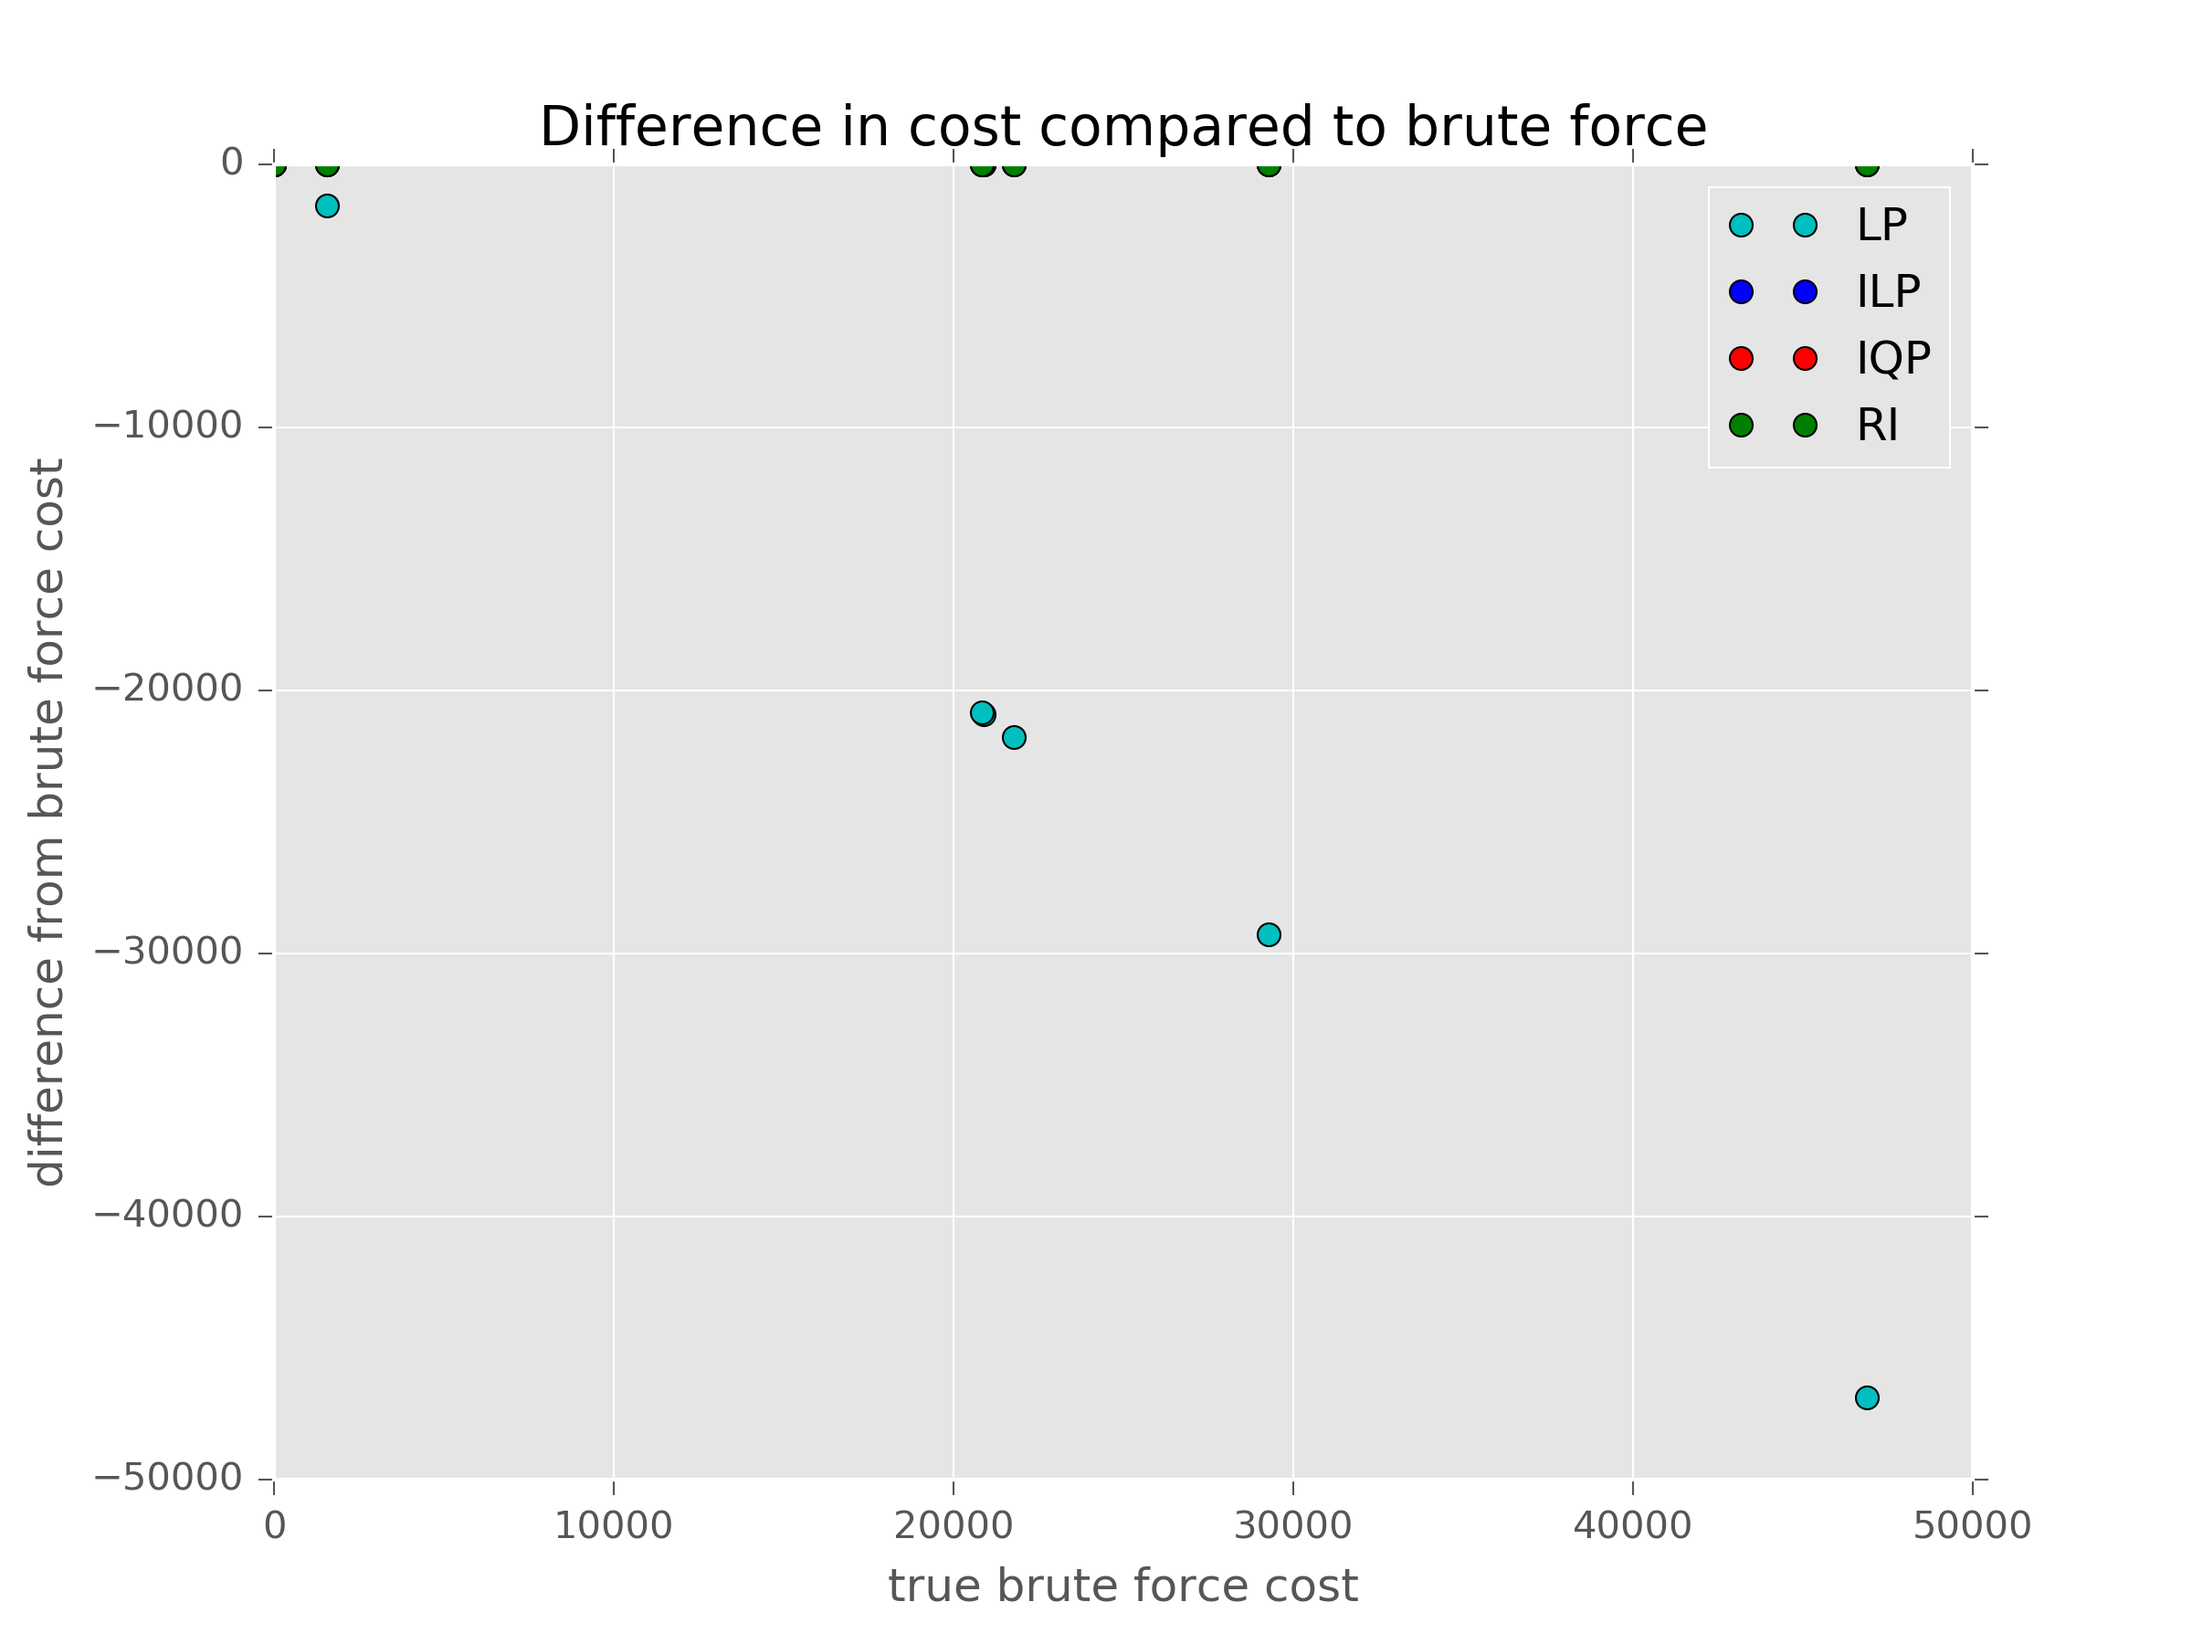
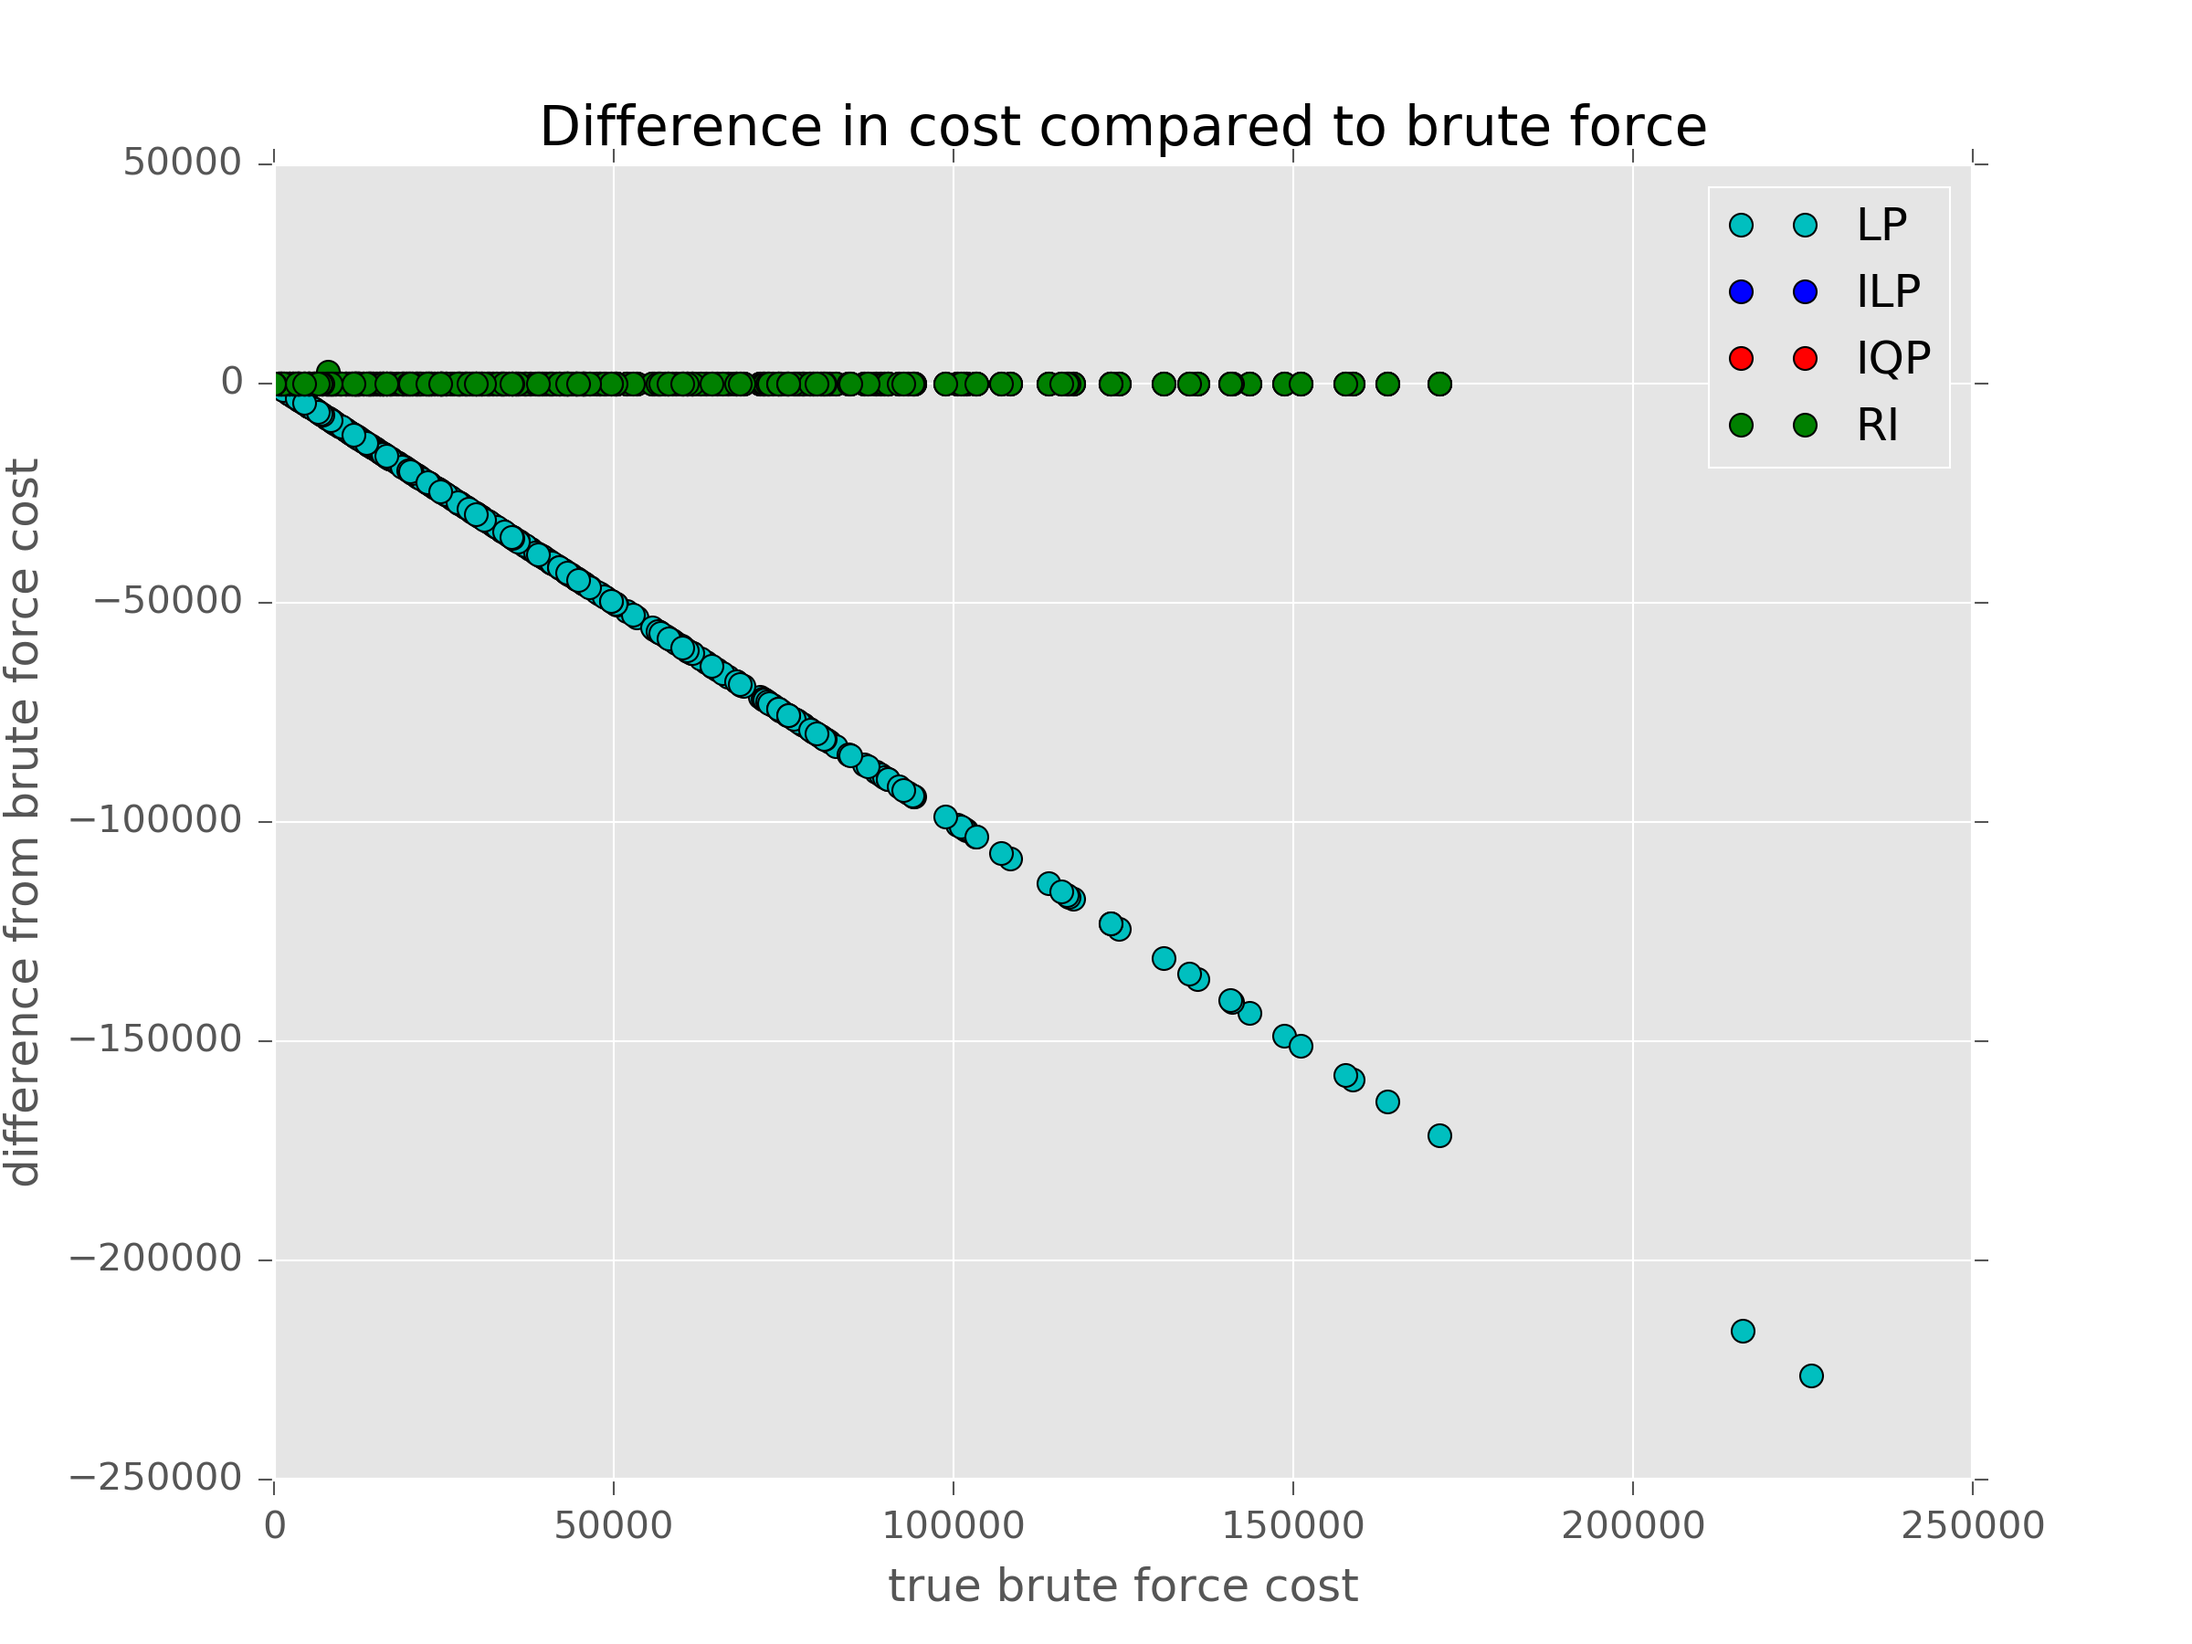
Linear Program relaxation graphs.

diff --git a/pysrc/june_22.py b/pysrc/june_22.py
@@ -12,7 +12,7 @@ ilp_response = []
 lp_response = []
 ri_response = []
 
-for i in range(10):
+for i in range(1000):
     a = VMM(3, 6)
     a.generate()
     x = {}
